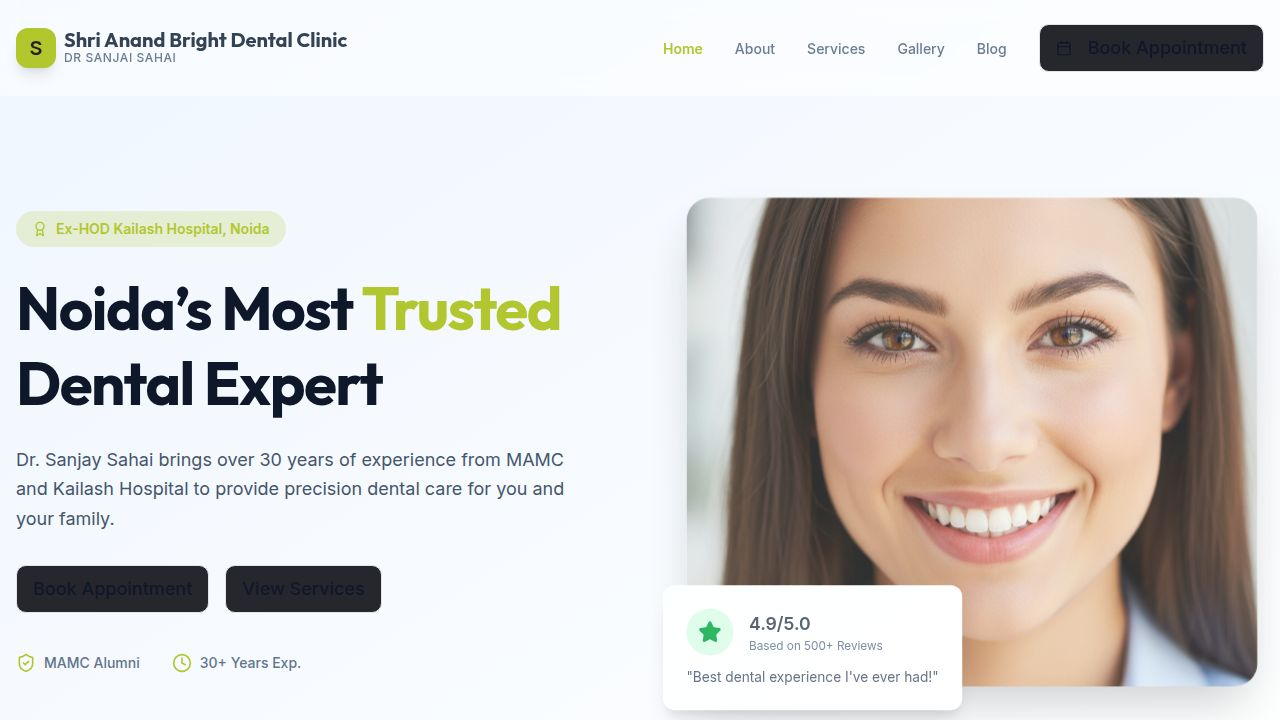
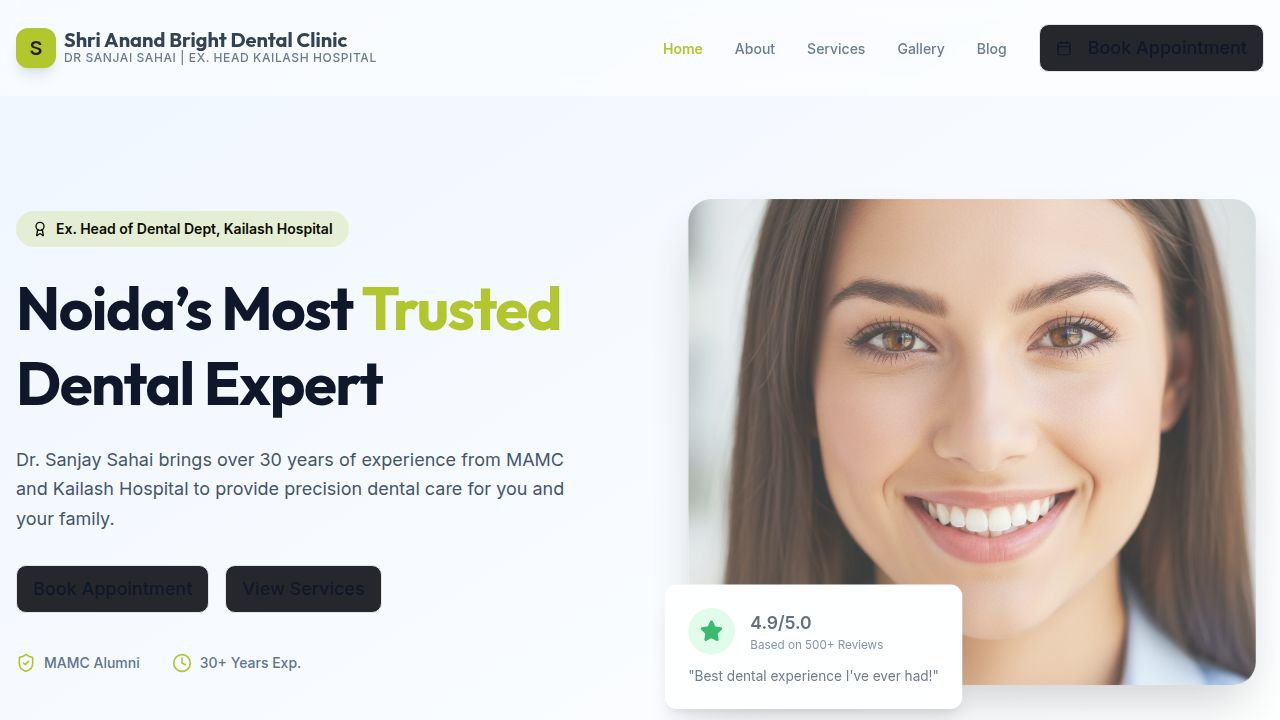
Update doctor's professional experience and credentials across the website
Enhance Dr. Sanjai Sahai's profile on the Home, About, Navbar, and Footer components by adding his tenure as Ex. Head of Dental Department at Kailash Hospital, Noida, and his previous experience at LNJP Hospital & G.B. Pant Hospital, New Delhi.

Replit-Commit-Author: Agent
Replit-Commit-Session-Id: 5e6cce0e-021d-4750-b770-909feb5ccffe
Replit-Commit-Checkpoint-Type: full_checkpoint
Replit-Commit-Event-Id: 389a3d38-f929-48a0-a6b1-4ff4606ab8e7
Replit-Commit-Screenshot-Url: https://storage.googleapis.com/screenshot-production-us-central1/1ec2a77f-9ef1-43e6-8072-b4ac018818dc/5e6cce0e-021d-4750-b770-909feb5ccffe/FqjIRkN
Replit-Helium-Checkpoint-Created: true

diff --git a/client/src/pages/About.tsx b/client/src/pages/About.tsx
@@ -34,7 +34,11 @@ export default function About() {
                   </li>
                   <li className="flex items-start gap-2">
                     <CheckCircle2 className="w-5 h-5 text-primary shrink-0 mt-0.5" />
-                    <span>Ex-Head of Department, Kailash Hospital, Noida</span>
+                    <span>Ex. Head of Dental Department, Kailash Hospital, Noida</span>
+                  </li>
+                  <li className="flex items-start gap-2">
+                    <CheckCircle2 className="w-5 h-5 text-primary shrink-0 mt-0.5" />
+                    <span>Formerly at LNJP Hospital & G.B. Pant Hospital, New Delhi</span>
                   </li>
                   <li className="flex items-start gap-2">
                     <CheckCircle2 className="w-5 h-5 text-primary shrink-0 mt-0.5" />
@@ -52,7 +56,7 @@ export default function About() {
                 Dr. Sanjay Sahai is a name synonymous with trust and dental excellence in Noida. Having graduated from the prestigious <strong>Maulana Azad Medical College (MAMC)</strong>, one of India's top medical institutions, he built a foundation of rigorous clinical training and medical ethics.
               </p>
               <p>
-                He served as the <strong>Head of Department (Dentistry) at Kailash Hospital, Noida</strong>, where he managed complex dental cases and led a team of specialists. This experience in a high-volume hospital setting gave him unique insights into managing dental emergencies and medically compromised patients.
+                He served as the <strong>Ex. Head of Dental Department at Kailash Hospital, Noida</strong>, where he managed complex dental cases and led a team of specialists. His distinguished career also includes valuable experience at <strong>LNJP Hospital</strong> and <strong>G.B. Pant Hospital, New Delhi</strong>.
               </p>
               <p>
                 Today, at his private practice, Dr. Sahai combines this vast experience with modern dental technology. His philosophy, <em>"Precision care through experience,"</em> reflects his belief that successful dentistry requires not just steady hands, but also the judgment that comes from treating thousands of smiles over decades.

diff --git a/client/src/components/layout/Footer.tsx b/client/src/components/layout/Footer.tsx
@@ -10,7 +10,7 @@ export function Footer() {
           <div>
             <h3 className="text-2xl font-heading font-bold text-white mb-4">Dr. Sanjay Sahai</h3>
             <p className="text-slate-400 mb-6 leading-relaxed">
-              Providing precision dental care with over 30 years of experience. Former HOD at Kailash Hospital, Noida.
+              Providing precision dental care with over 30 years of experience. Ex. Head of Dental Dept, Kailash Hospital, Noida. Formerly at LNJP & G.B. Pant Hospitals.
             </p>
             <div className="flex gap-4">
               <a href="#" className="w-10 h-10 rounded-full bg-slate-800 flex items-center justify-center hover:bg-primary transition-colors">

diff --git a/client/src/pages/Home.tsx b/client/src/pages/Home.tsx
@@ -67,7 +67,7 @@ export default function Home() {
               >
                 <div className="inline-flex items-center gap-2 px-4 py-2 rounded-full bg-[#b2c72e]/20 text-sm font-semibold mb-6 text-[#090a01]">
                   <Award className="w-4 h-4" />
-                  <span>Ex-HOD Kailash Hospital, Noida</span>
+                  <span>Ex. Head of Dental Dept, Kailash Hospital</span>
                 </div>
                 <h1 className="text-4xl md:text-5xl lg:text-6xl font-bold font-heading leading-tight mb-6 text-slate-900">
                   Noida’s Most <span className="text-primary">Trusted</span><br />

diff --git a/client/src/components/layout/Navbar.tsx b/client/src/components/layout/Navbar.tsx
@@ -40,7 +40,7 @@ export function Navbar() {
             </div>
             <div className="flex flex-col">
               <span className="font-heading font-bold text-xl leading-none text-foreground">Shri Anand Bright Dental Clinic</span>
-              <span className="text-xs text-muted-foreground font-medium uppercase tracking-wider">Dr Sanjai Sahai</span>
+              <span className="text-xs text-muted-foreground font-medium uppercase tracking-wider">Dr Sanjai Sahai | Ex. Head Kailash Hospital</span>
             </div>
           </a>
         </Link>
